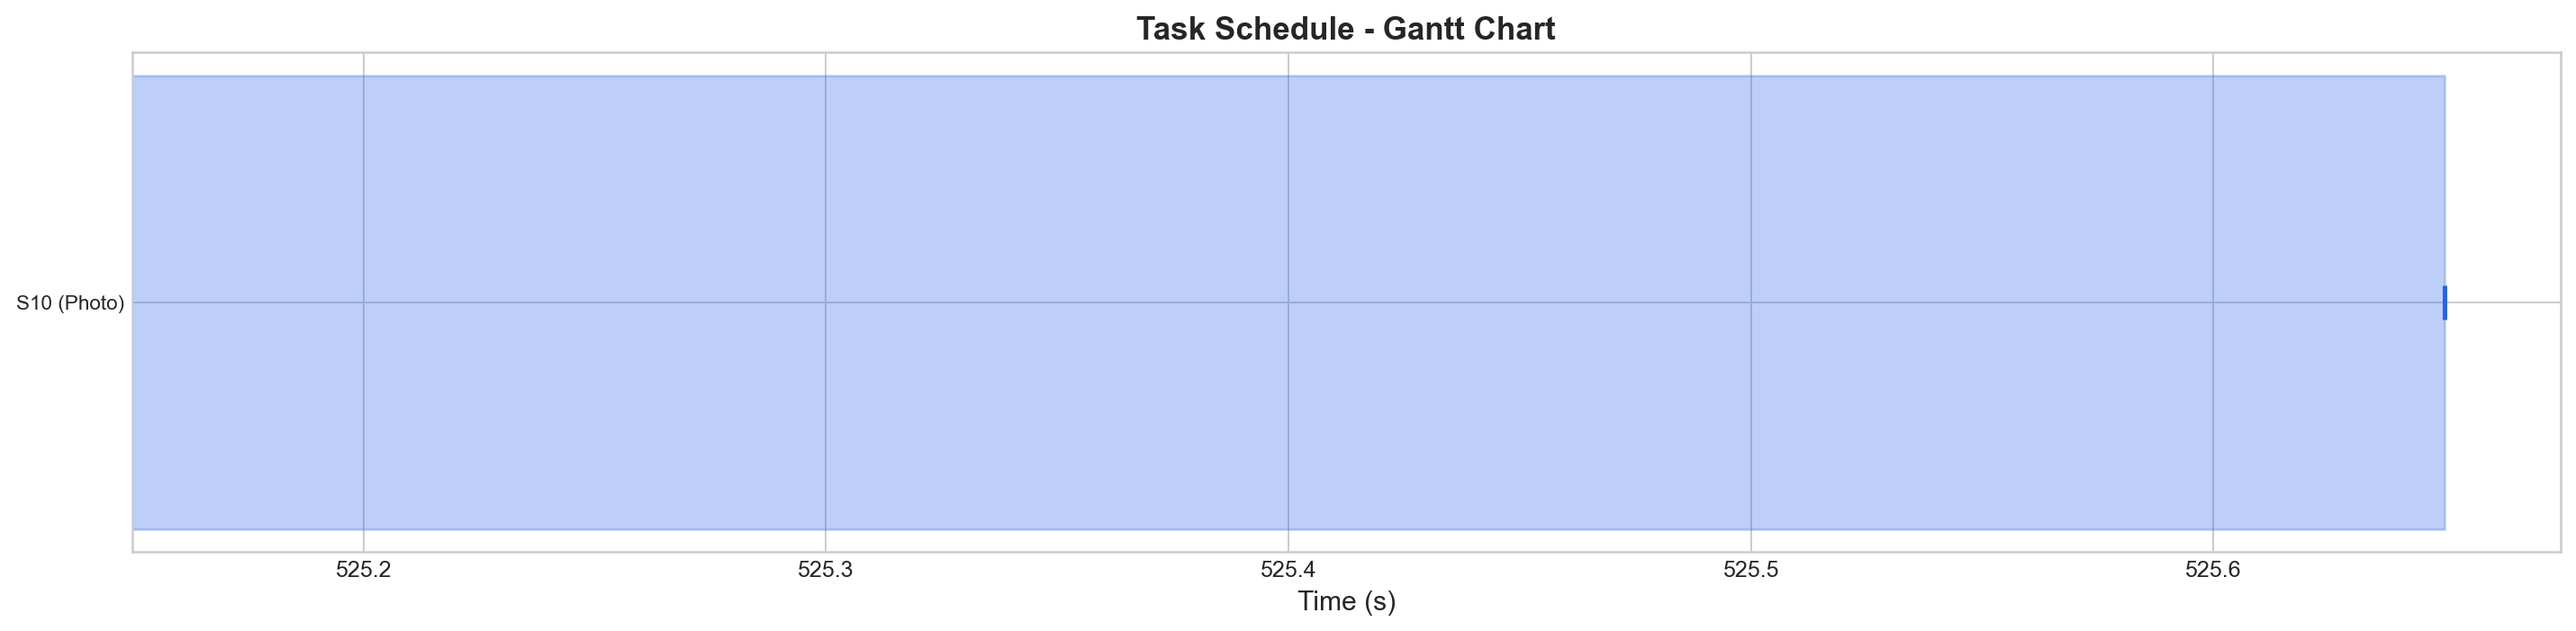
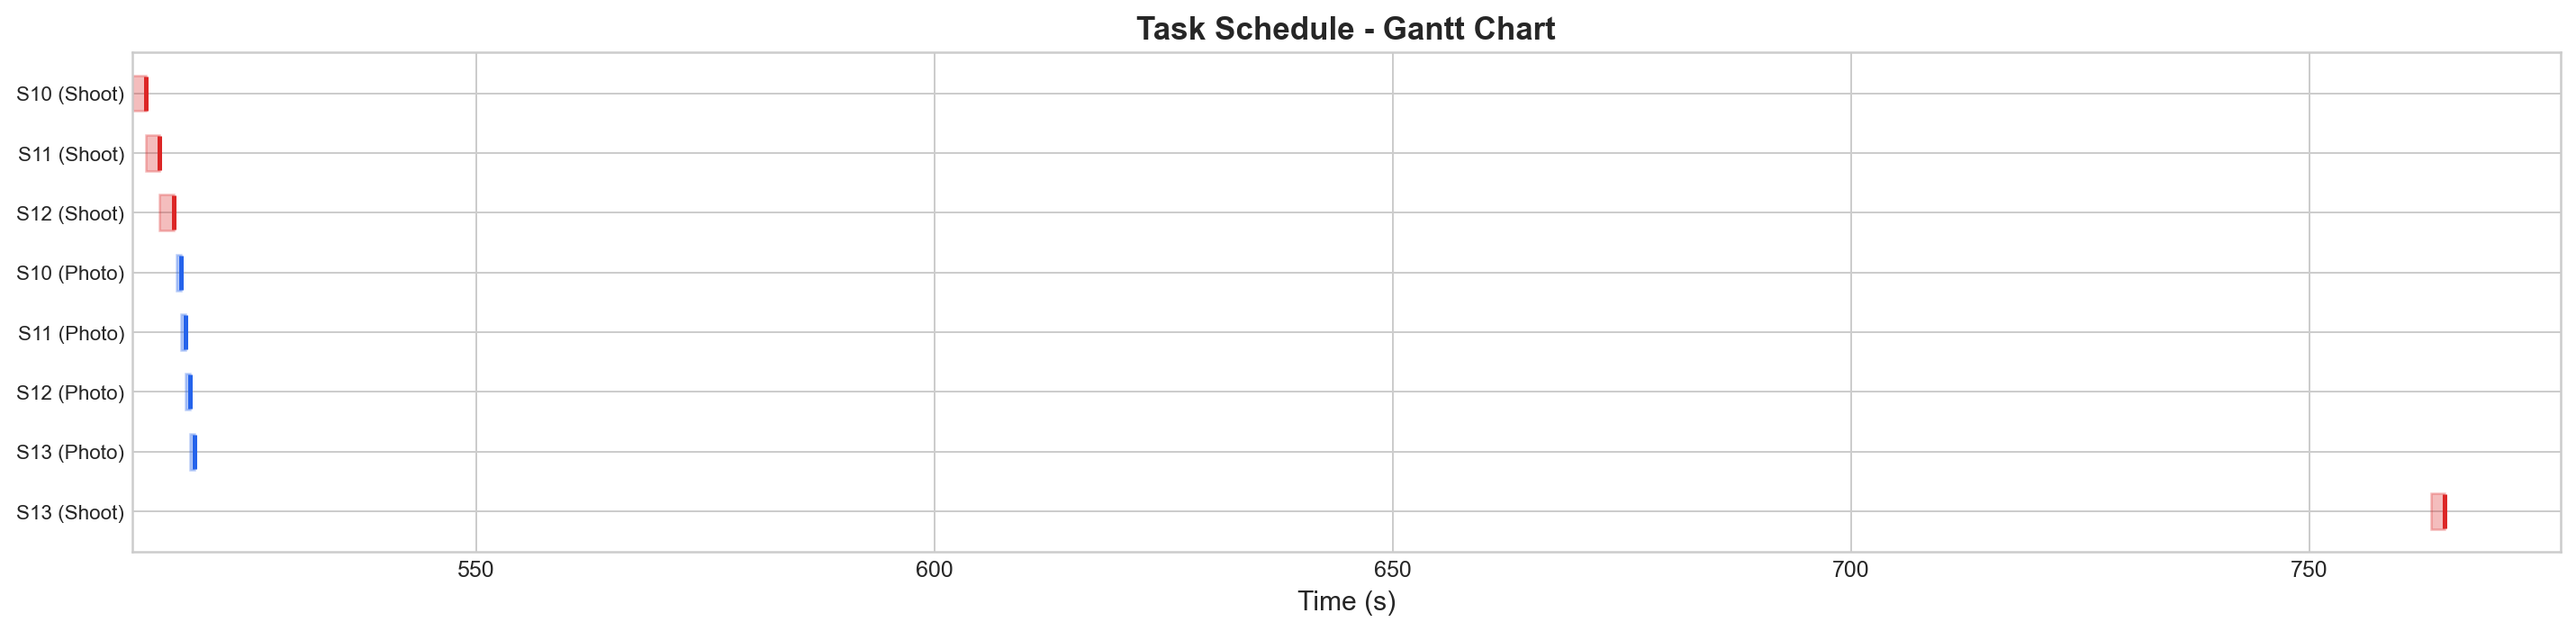
v2

diff --git a/core/motion_utils.py b/core/motion_utils.py
@@ -82,36 +82,29 @@ def compute_acceleration(
     t: np.ndarray,
     x: np.ndarray,
     y: np.ndarray,
+    smooth_window: int = 5,
 ) -> tuple:
     """从等间距轨迹计算加速度分量与加速度大小。
 
-    先调用 compute_velocity 获得速度序列，
-    再对速度序列做同样的中心差分。
-
-    Parameters
-    ----------
-    t : np.ndarray, shape (N,)
-        等间距时间序列 (s)。
-    x : np.ndarray, shape (N,)
-        X 坐标序列 (m)。
-    y : np.ndarray, shape (N,)
-        Y 坐标序列 (m)。
-
-    Returns
-    -------
-    ax : np.ndarray, shape (N,)
-        X 方向加速度分量 (m/s²)。
-    ay : np.ndarray, shape (N,)
-        Y 方向加速度分量 (m/s²)。
-    acc : np.ndarray, shape (N,)
-        加速度大小，acc = sqrt(ax² + ay²) (m/s²)。
+    先计算速度，对速度做移动平均平滑后再差分，
+    避免二阶差分放大残余高频噪声。
     """
     vx, vy, _ = compute_velocity(t, x, y)
 
-    # 对速度序列再次差分，复用同一逻辑
-    ax, ay, acc = compute_velocity(t, vx, vy)
+    # ---- 新增：对速度做移动平均平滑 ----
+    if smooth_window > 1 and len(vx) > smooth_window:
+        kernel = np.ones(smooth_window) / smooth_window
+        # 用 reflect 填充避免边界效应
+        vx_smooth = np.convolve(vx, kernel, mode="same")
+        vy_smooth = np.convolve(vy, kernel, mode="same")
+    else:
+        vx_smooth = vx
+        vy_smooth = vy
+
+    ax, ay, acc = compute_velocity(t, vx_smooth, vy_smooth)
 
     return ax, ay, acc
+
 
 
 # ============================================================
